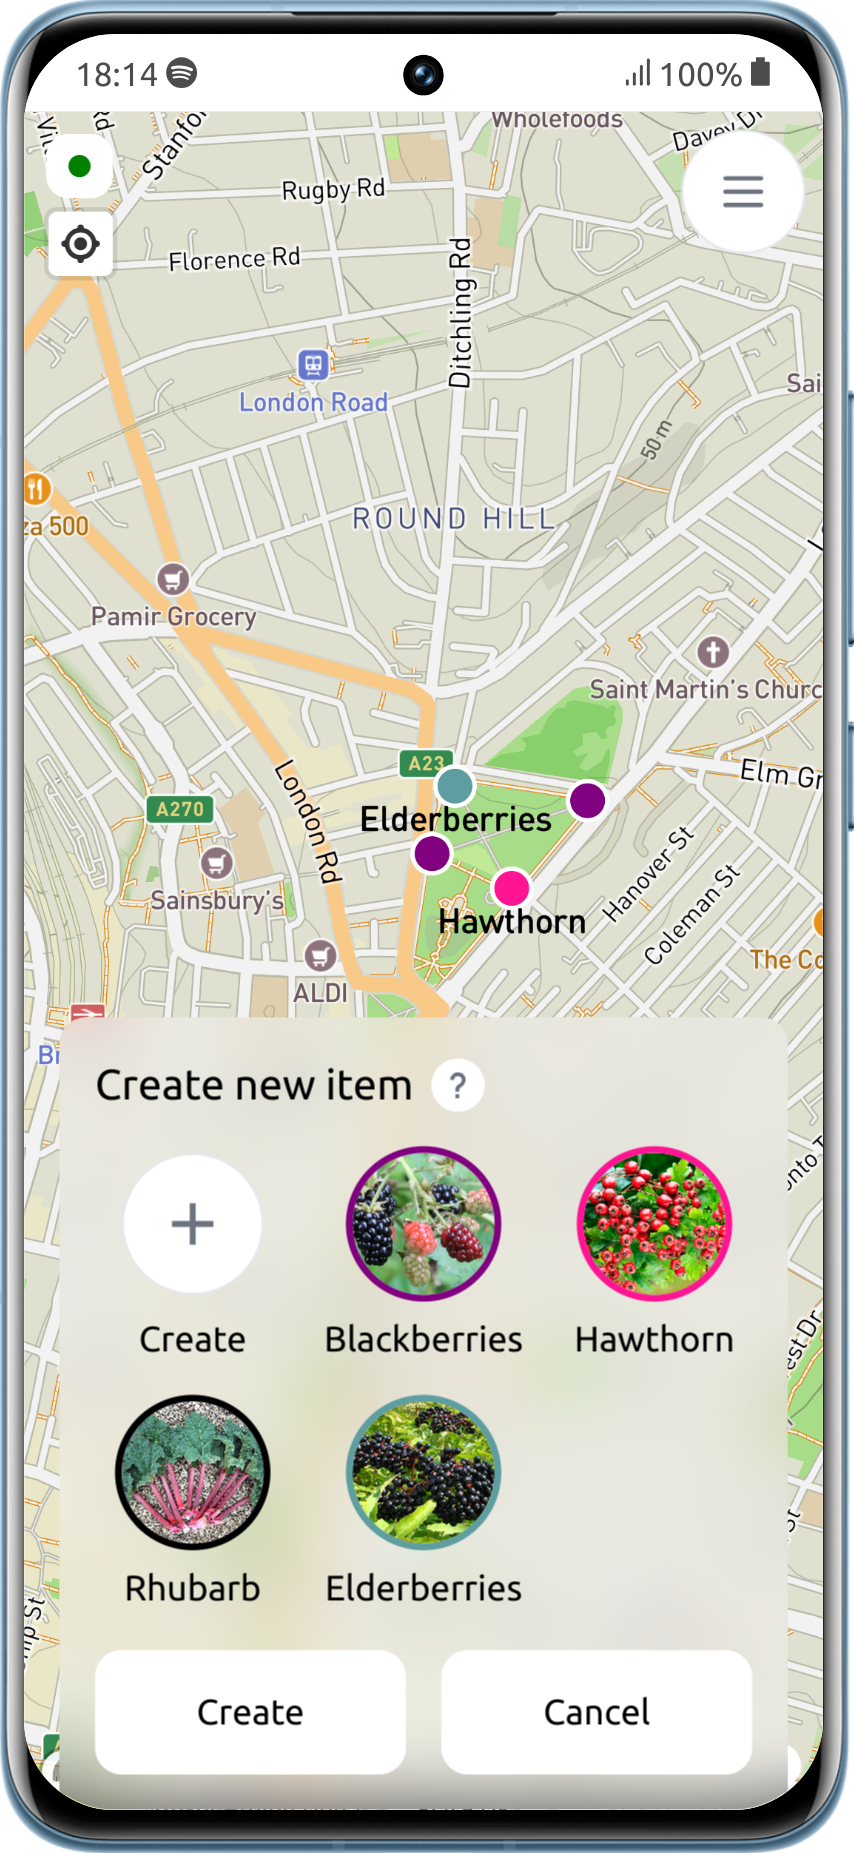
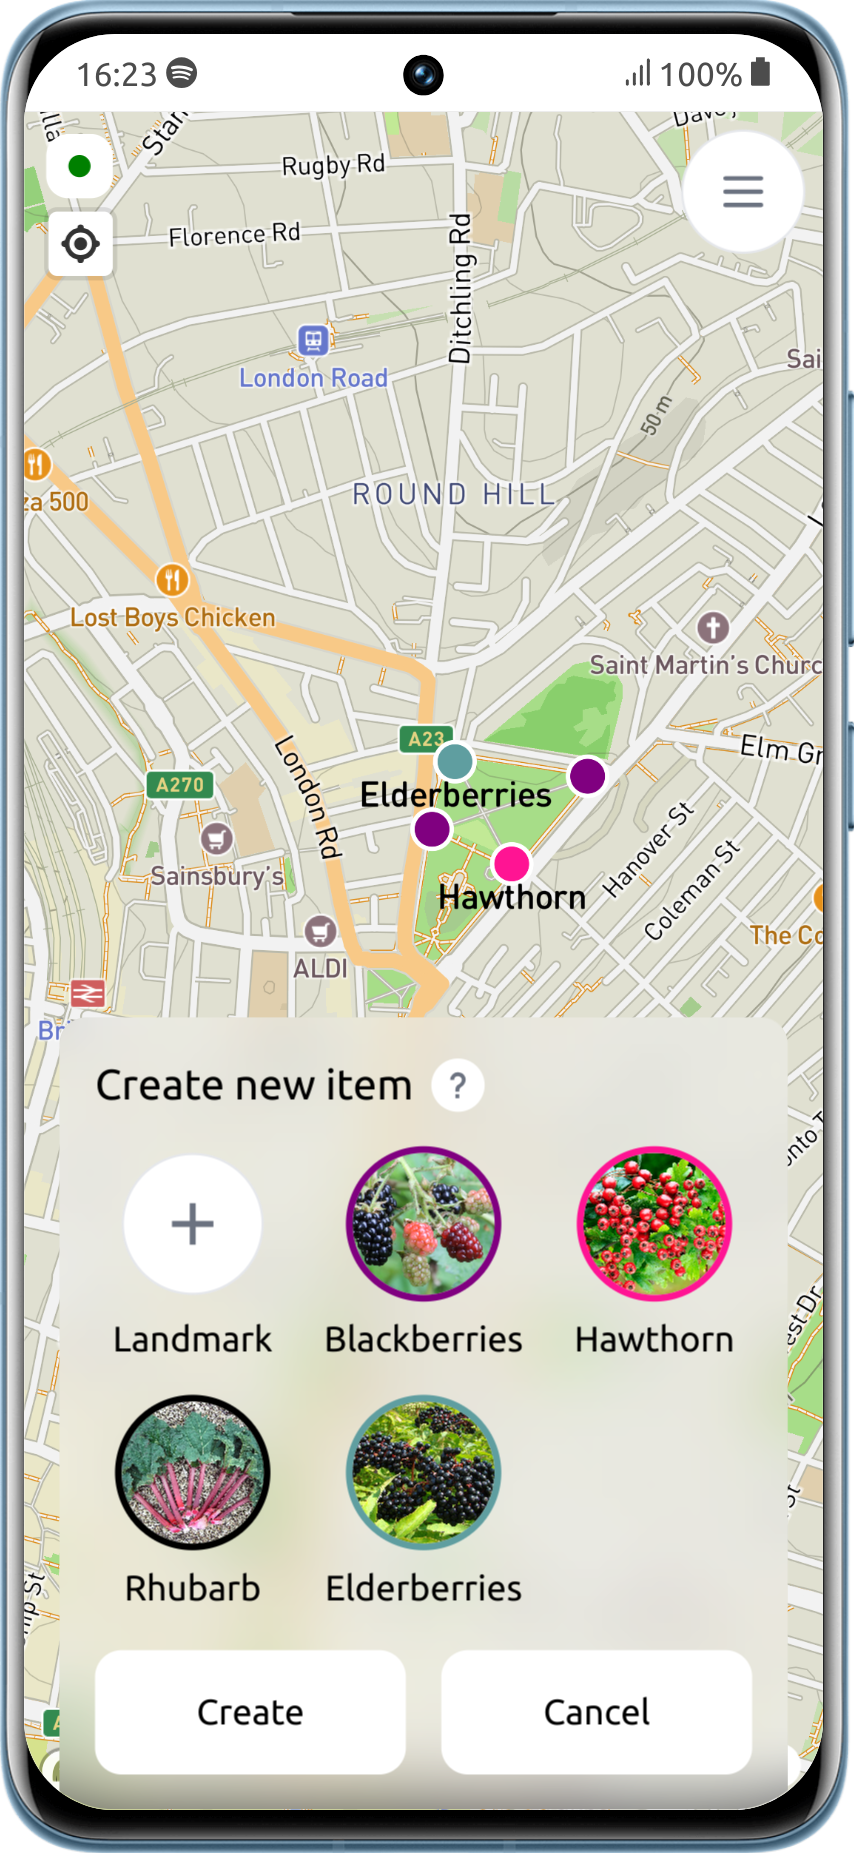
docs: :memo: add features, update account-creation with home location

Changed region(s): [[0.0304, 0.0308, 0.9742, 0.9536], [0.1218, 0.7075, 0.3044, 0.7383]]

diff --git a/guide/features.md b/guide/features.md
@@ -2,13 +2,19 @@
 
 The aim of Forager is to provide you with the tools required
 for successful foraging. Currently, Forager supports and
-provides the follownig:
+provides the following:
 
 - Pinning locations of interest (items) on the map
 - Clustering locations of interest when zoomed out
 - Adding reference images for items
 - Setting a home location for a given user
 - GPS location tracking
+
+<!-- ## EXPLAIN SERVER STATUS DOT -->
+<!-- 
+## Side menu
+
+EXPLAIN THE SIDE MENU -->
 
 ## Pinning items
 
@@ -25,26 +31,22 @@ you are wishing to add:
 
 By default, this menu will be empty as you'll be required
 to add the items of interest you're likely to find throughout
-your travels. This can be done in the settings menu.
-
-It is also possible to add arbitrary items to the map that
-aren't associated with a given image; The 'Create' button
-in the top-left corner of the contextual menu will reveal
-the ability to add items with custom attributes. This can
-be useful if you are wishing to add items to the map that
-aren't necessarily foragable items, but items of interest,
-such as landmarks. 
+your travels. This can be done in the Settings menu.
 
 ## Adding new items
 
 To add a new item of interest, you can use the Images menu:
 
-<!-- ADD UPDATED IMAGE INCLUDING THE CALENDAR COMPONENT -->
+<div class="custom-image">
+    <img src="/images-menu.png" width="400" loading="lazy" />
+</div>
 
-Every item (except arbitrary items) is associated with an image of the item in question.
+Every item is associated with an image of the item in question.
 In this menu, you can add new image with any publicly available URL,
 as well as a name and colour, so you can easily identify the
-item in question in menus, as well as on the map.
+item in question in menus, as well as on the map. Every item
+should be set with a start month and an end month, signifying
+when the item is expected to be in season and fall out of season.
 
 Once the new image has been added, it will be immediately available to use.
 
@@ -68,7 +70,7 @@ Here, the contextual menu will show the following information:
 - When the item is first in season
 - When the item falls out of season
 
-It is also possible to forage the item from this menu; When 
+It is also possible to forage the item from this menu; when 
 performing this action, the item will be set to a grey colour on
 the map to indicate you have already foraged this item today. The colour
 will be reset the following day.
@@ -77,3 +79,43 @@ This same contextual menu provides the option to delete a given item.
 Please be aware that as of time of writing, there is no confirmation
 of deletion. Deleting an item removes the item from the map, and
 deletes all associated data from the database.
+
+## Landmarks
+
+Similar to items, landmarks can be placed onto the map via the
+popup contextual menu with the plus icon. Once clicked, the
+Landmarks menu will appear:
+
+<div class="custom-image">
+    <img src="/create-landmark-menu.png" width="400" loading="lazy" />
+</div>
+
+Once added, the landmark will
+appear on the map:
+
+<div class="custom-image">
+    <img src="/landmark.png" width="400" loading="lazy" />
+</div>
+
+Landmarks can be clicked, revealing
+the landmark menu. From here,
+you can delete a given landmark:
+
+<div class="custom-image">
+    <img src="/landmark-menu.png" width="400" loading="lazy" />
+</div>
+
+
+## GPS tracking
+
+Forager features GPS tracking, allow you to track your location
+as you travel. Simply press the GPS button in the top-left corner
+to enable GPS tracking. All tracking is performed locally on your
+devices GPS. 
+
+Dragging on the map will remove follow-mode. To re-enable
+follow-mode, simply press the GPS button again.
+
+To turn off GPS tracking, press the button until the GPS tracking
+button is no longer blue.
+

diff --git a/guide/account-creation.md b/guide/account-creation.md
@@ -23,3 +23,17 @@ account creation, you can do so by visiting http://127.0.0.1:8090/_
 Pocketbase interface. This table hosts all of the feature-flags
 for Forager; Disabling the 'canCreateAccounts' flag and saving
 will disable account creation from the Forager login page.
+
+## Setting your home location
+
+When you first login to Forager, you will be required to set
+your home location. This location will be used on launch of
+the application to set the maps position and for you to easily
+re-center your position:
+
+<div class="custom-image">
+    <img src="/set-home-location.png" width="400" loading="lazy" />
+</div>
+
+With your home location set, you can now start to explore
+some of Foragers features.
